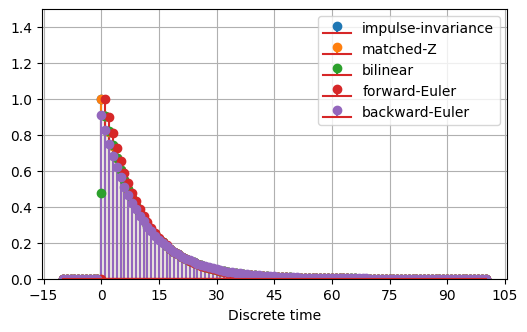
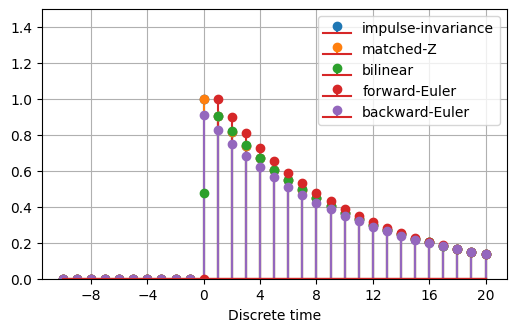
Scale response to work with revised version of discrete-time impulse response

diff --git a/lcapy/sexpr.py b/lcapy/sexpr.py
@@ -384,7 +384,7 @@ class LaplaceDomainExpression(LaplaceDomain, Expr):
         else:
             raise ValueError('Unknown method %s' % method)
 
-        return result
+        return result * dtval
 
 
     def state_space(self, form='CCF'):
@@ -612,16 +612,30 @@ class LaplaceDomainExpression(LaplaceDomain, Expr):
         return H
 
     def discretize(self, method='bilinear', alpha=0.5):
-        """Convert to a discrete-time approximation.
+        """Convert to a discrete-time approximation in the z-domain:
+
+        :math:`H(z) \approx H_c(s)`
+
+        If :math:`H(s)` is a transfer function then for the
+        impulse-invariance method, the discrete-time impulse response
+        is related to the continuous-time impulse response by
+
+        :math:`h[n] = h_c(n \Delta t)`
+
+        Note, when designing digital filters, it is often common to to
+        scale the discrete-time impulse response by the sampling
+        interval:
+
+        :math:`h[n] = \Delta t h_c(n \Delta t)`
 
         The default method is 'bilinear'.  Other methods are:
-        'impulse-invariance'
-        'bilinear', 'tustin', 'trapezoidal'
-        'generalized-bilinear', 'gbf' controlled by the parameter `alpha`
-        'euler', 'forward-diff', 'forward-euler'
-        'backward-diff', 'backward-euler'
-        'simpson',
-        'matched-Z', 'zero-pole-matching'"""
+        'impulse-invariance' 'bilinear', 'tustin', 'trapezoidal'
+        'generalized-bilinear', 'gbf' controlled by the parameter
+        `alpha` 'euler', 'forward-diff', 'forward-euler'
+        'backward-diff', 'backward-euler' 'simpson', 'matched-Z',
+        'zero-pole-matching'
+
+        """
 
         if method in ('gbf', 'generalized-bilinear'):
             return self.generalized_bilinear_transform(alpha)

diff --git a/doc/examples/discretetime/discretize1.py b/doc/examples/discretetime/discretize1.py
@@ -12,11 +12,11 @@ h5 = h(n, method='backward-euler').subs(dt, 0.1)
 
 fig, axes = subplots(1, figsize=(6, 3.5))
 
-h1.plot((-10, 100), axes=axes, label='impulse-invariance', color='C0')
-h2.plot((-10, 100), axes=axes, label='matched-Z', color='C1')
-h3.plot((-10, 100), axes=axes, label='bilinear', color='C2')
-h4.plot((-10, 100), axes=axes, label='forward-Euler', color='C3')
-h5.plot((-10, 100), axes=axes, label='backward-Euler', color='C4')
+h1.plot((-10, 20), axes=axes, label='impulse-invariance', color='C0')
+h2.plot((-10, 20), axes=axes, label='matched-Z', color='C1')
+h3.plot((-10, 20), axes=axes, label='bilinear', color='C2')
+h4.plot((-10, 20), axes=axes, label='forward-Euler', color='C3')
+h5.plot((-10, 20), axes=axes, label='backward-Euler', color='C4')
 axes.set_ylim(0, 1.5)
 
 axes.legend()

diff --git a/doc/expressions.rst b/doc/expressions.rst
@@ -1735,7 +1735,7 @@ Lcapy has the following simplification methods:
 - `simplify_heaviside()` simplifies Heavside unit steps, for example::
 
    >>> (u(t) * u(t)).simplify_heaviside()
-  u(t)
+   u(t)
 
 - `simplify_factors()`  simplifies each factor separately.
 
@@ -1785,10 +1785,10 @@ Lcapy has the following approximation methods:
 
 Note, some higher order approximations can be unstable.  For example, the step-response of `exp(-s)` using a bilinear transformation is unstable for order 3 Pade approximation as in the following figure.
 
-.. image:: examples/discrete-time/pade-step-delay.png
+.. image:: examples/discretetime/pade-step-delay.png
    :width: 12cm
 
-.. image:: examples/discrete-time/pade-step-delay2.png
+.. image:: examples/discretetime/pade-step-delay2.png
    :width: 12cm
 
 - `approximate_hyperbolic_trig(method, order, numer_order)` approximates hyperbolic trig. functions with rational functions.  This expands hyperbolic trig. functions using `expand_hyperbolic_trig` and then uses `approximate_exp`.  For example::
@@ -1949,8 +1949,23 @@ Discrete-time approximation
 
 A continuous time transfer function in the Laplace domain can be
 converted to a discrete-time transfer function in the Z-domain using
-the `discretize()` method.  There are many methods to perform this;
-there is no universally best method.
+the `discretize()` method:
+
+:math:`H(z) \approx H_c(s)` .
+
+If :math:`H(s)` is a transfer function then for the impulse-invariance
+method, the discrete-time impulse response is related to the
+continuous-time impulse response by
+
+:math:`h[n] = h_c(n \Delta t)` .
+
+Note, when designing digital filters, it is often common to to scale
+the discrete-time impulse response by the sampling interval:
+
+:math:`h[n] = \Delta t \; h_c(n \Delta t)` .
+
+There are many methods to approximate a Laplace transform with a
+Z-transform; there is no universally best method.
 
 The default method is 'bilinear'.  Other methods are:
 
@@ -1975,8 +1990,14 @@ The default method is 'bilinear'.  Other methods are:
 - 'simpson' uses :math:`s = \frac{3}{\Delta t} (z^2 - 1) / (z^2 + 4
   z + 1)`.  This is equivalent to integration with Simpsons's rule.
 
-- 'matched-Z', 'zero-pole-matching' matches poles and zeros where :math:`s + \alpha = (1 - \exp(-\alpha  \Delta t) / z)`.
+- 'matched-Z', 'zero-pole-matching' matches poles and zeros where :math:`s + \alpha = (1 - \exp(-\alpha  \Delta t) / z)`.  When the expression has no zeros, the matched-Z and impulse invariance methods are equivalent.
 
+The following figure compares the impulse responses computed using
+some of these methods for a continuous-time impulse reponse
+:math:`\exp(-t) u(t)`.
+
+.. image:: examples/discretetime/discretize1.png
+   :width: 12cm
 
 .. _noisesignals:
 
